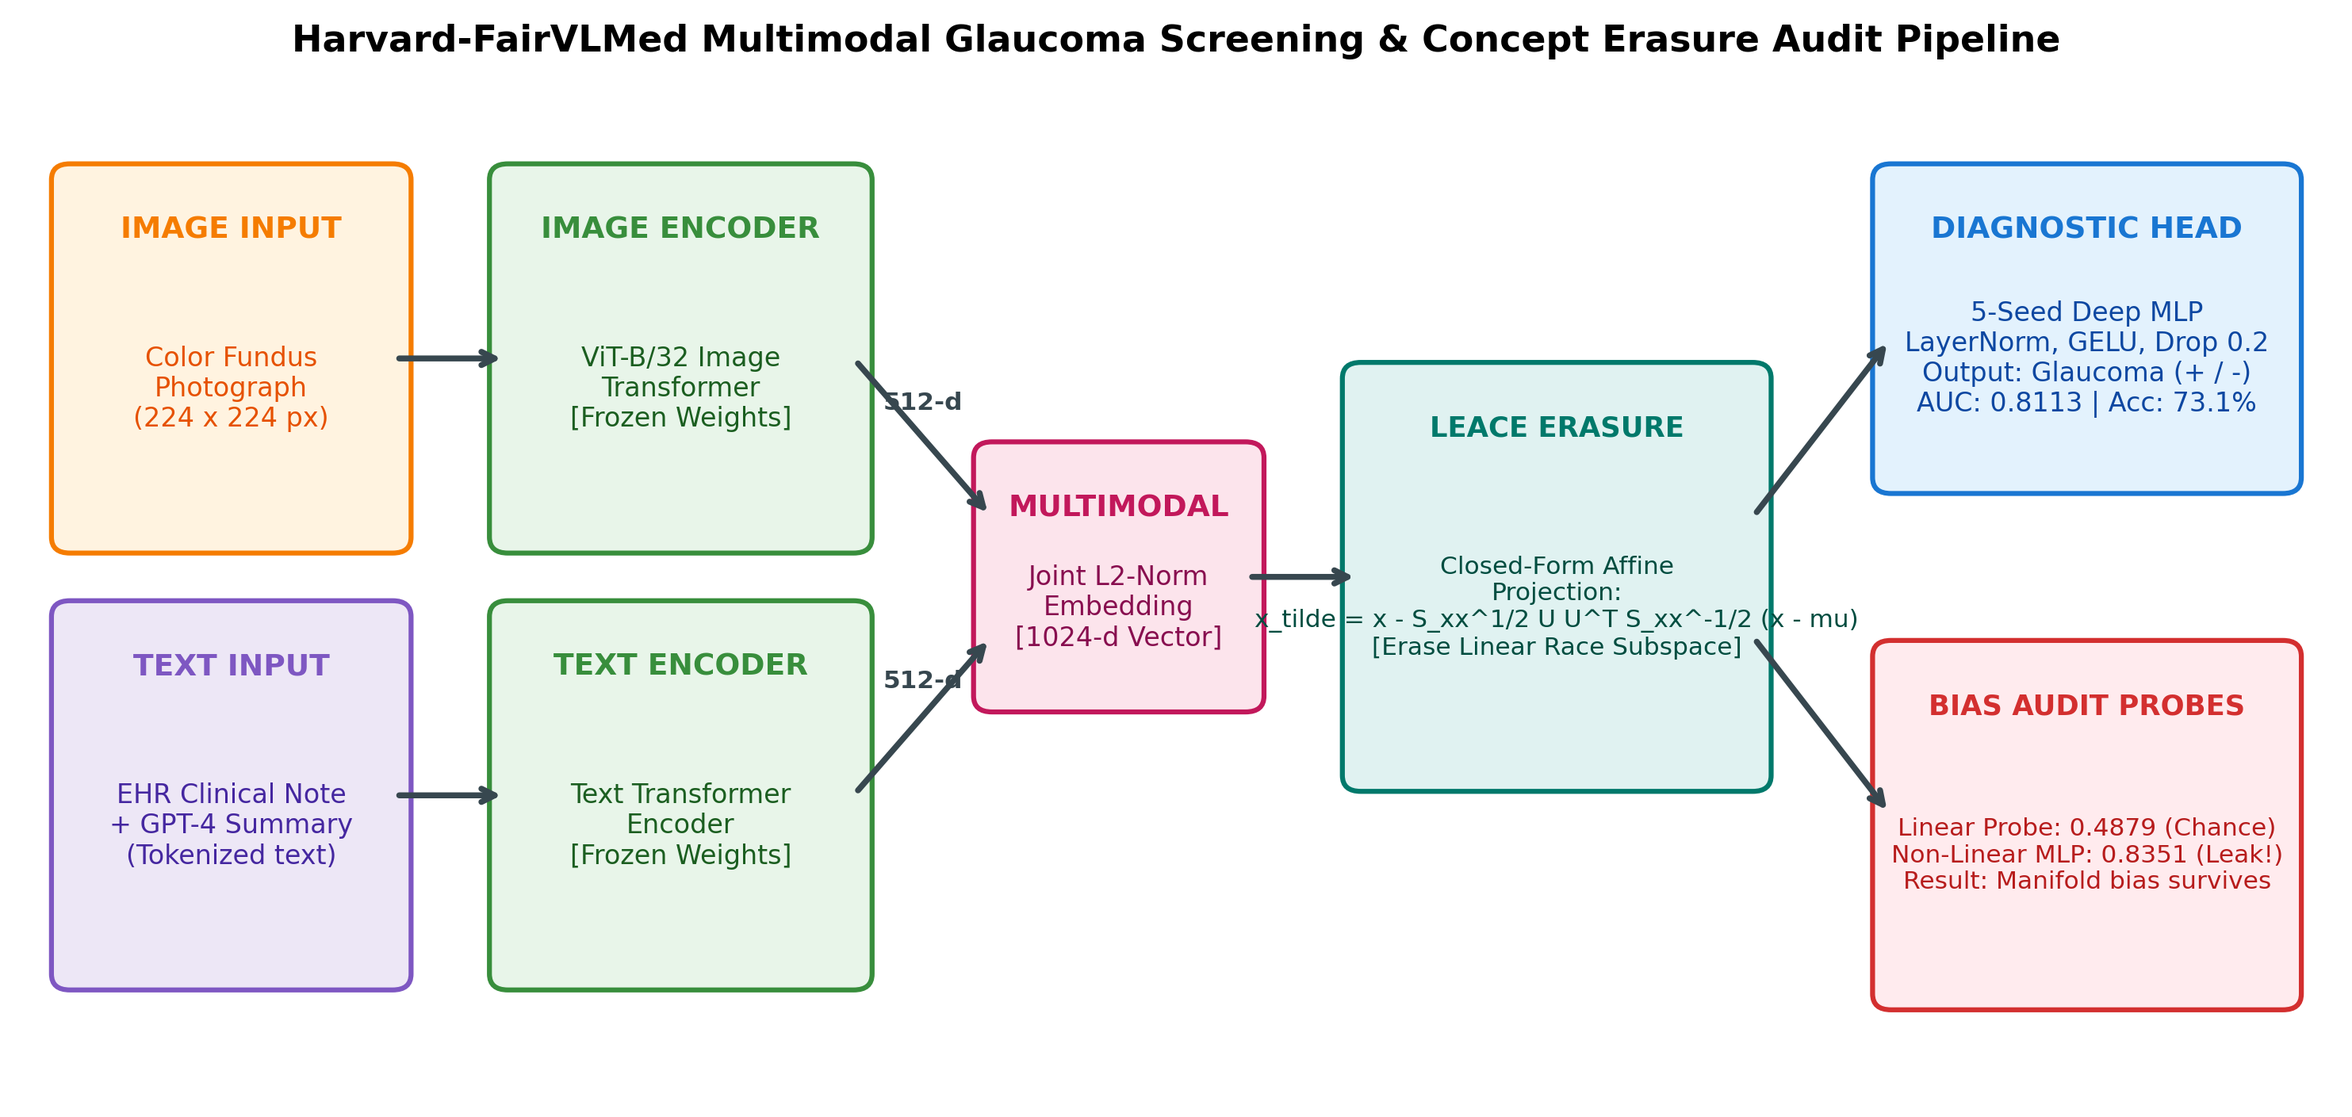
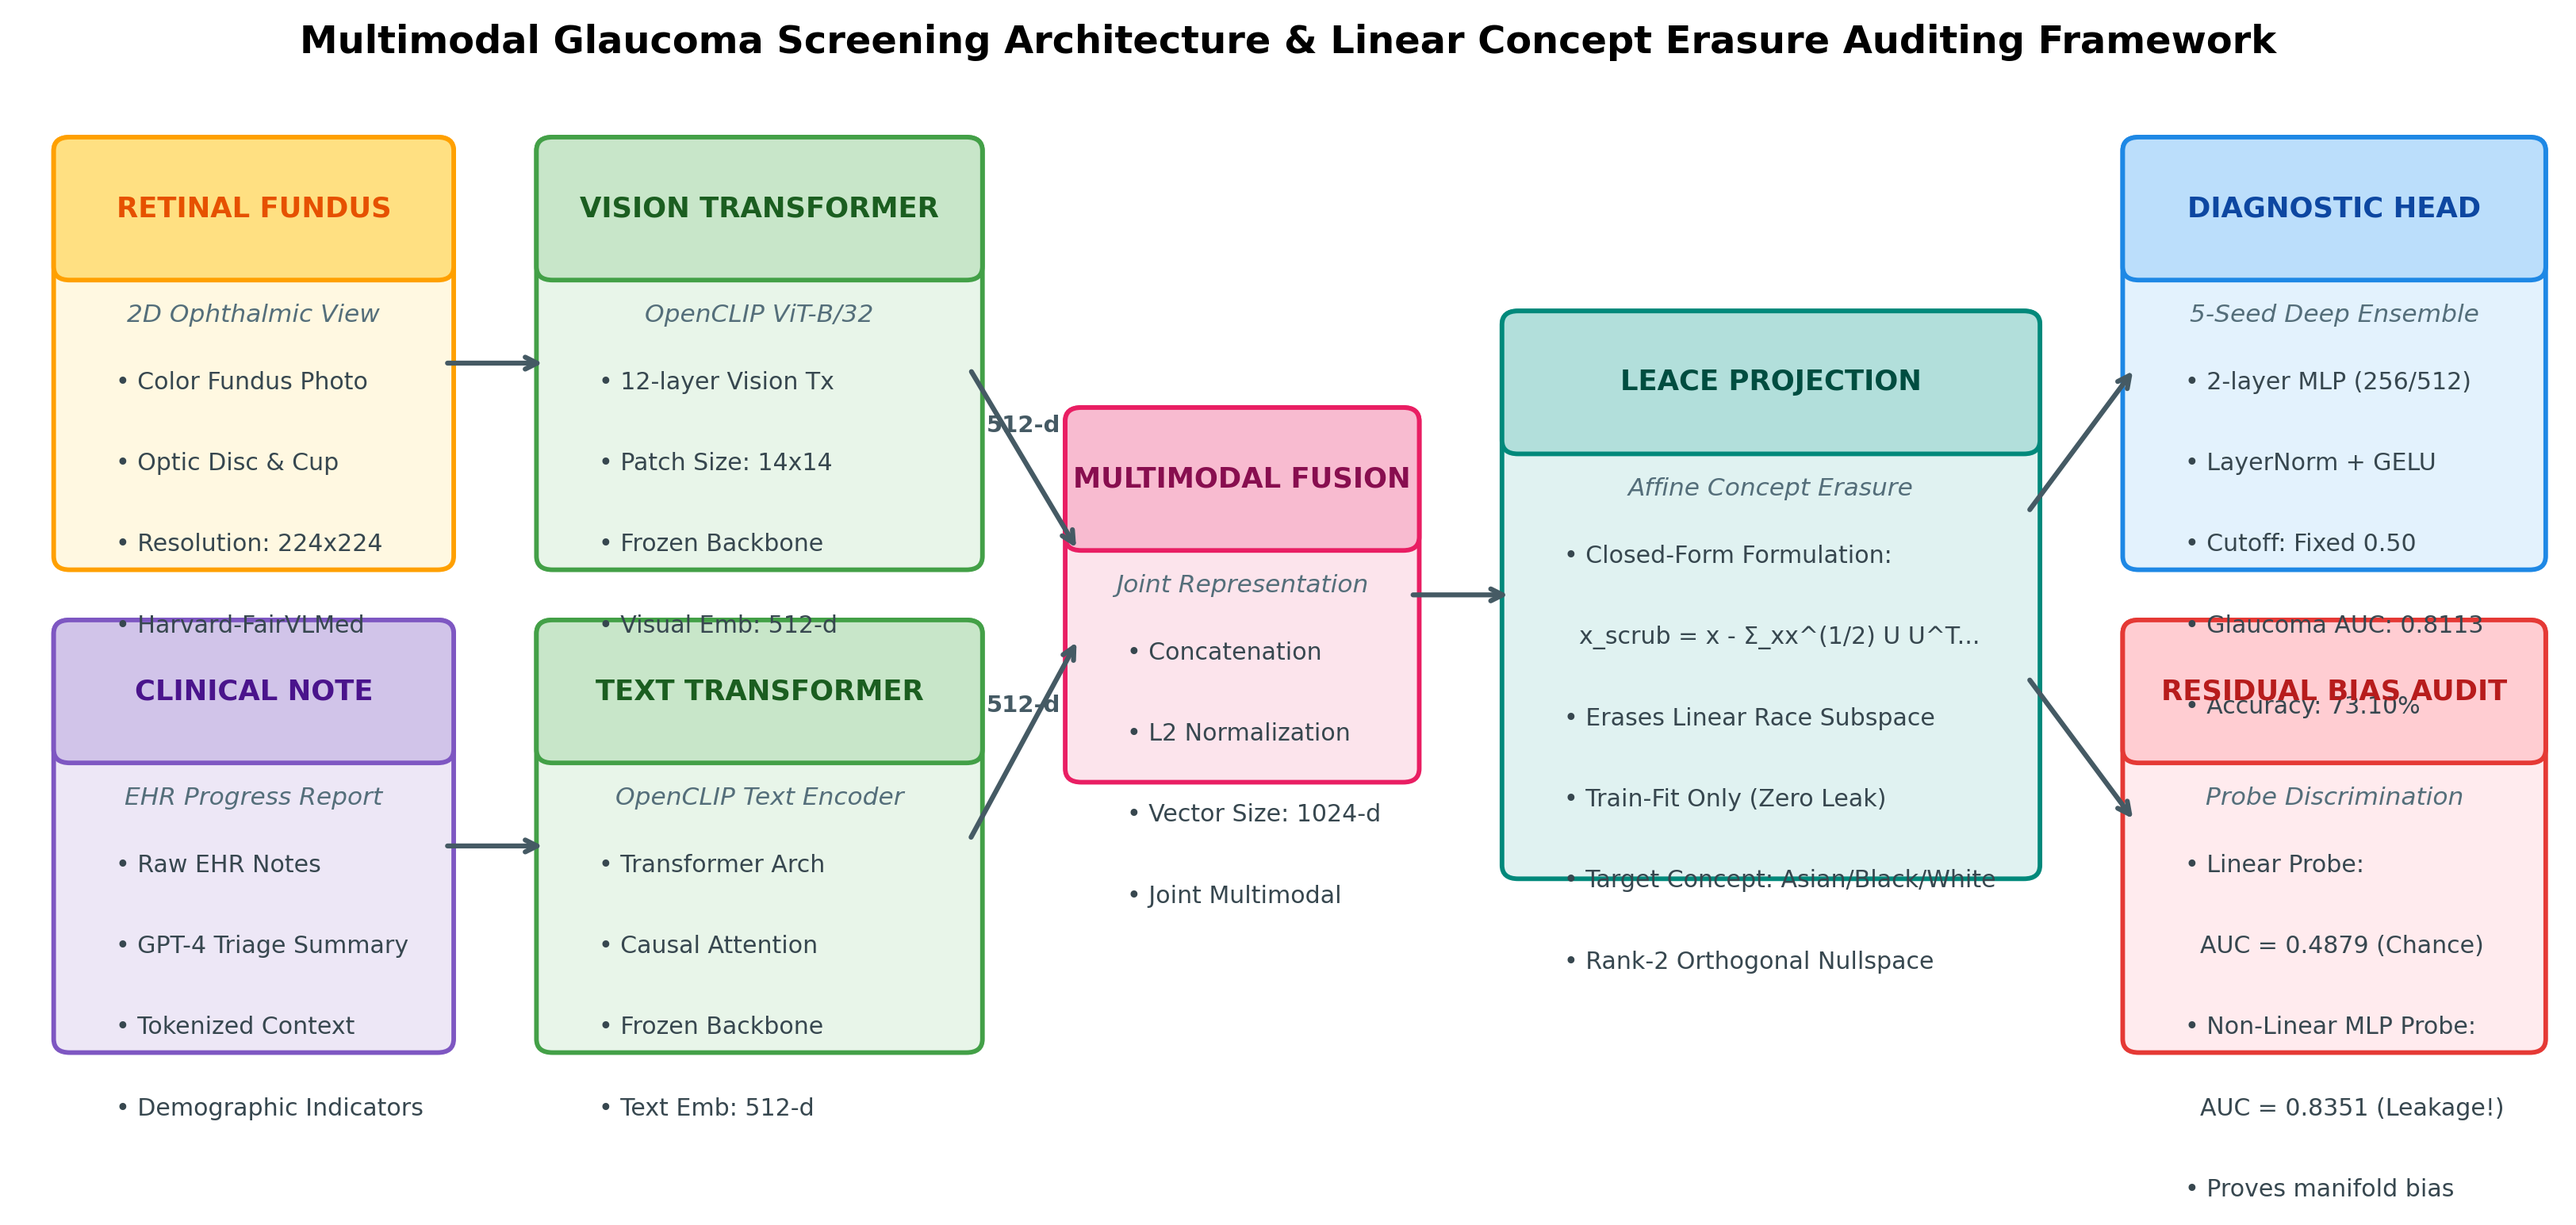
Generated high-resolution clinical research figures and architecture diagram

diff --git a/src/generate_advanced_figures.py b/src/generate_advanced_figures.py
@@ -1,0 +1,222 @@
+import matplotlib.pyplot as plt
+import matplotlib.patches as patches
+import numpy as np
+import os
+
+# Set global publication style
+plt.rcParams.update({
+    'font.family': 'sans-serif',
+    'font.sans-serif': ['DejaVu Sans', 'Arial'],
+    'font.size': 9,
+    'axes.labelsize': 9.5,
+    'axes.titlesize': 10.5,
+    'figure.titlesize': 12
+})
+
+# ==============================================================================
+# FIGURE 1: Advanced Research Architecture & Geometric Projection (fig_architecture.png)
+# ==============================================================================
+fig, ax = plt.subplots(figsize=(11, 5.2), dpi=300)
+ax.set_xlim(0, 110)
+ax.set_ylim(0, 52)
+ax.axis('off')
+
+def draw_card(x, y, w, h, title, subtitle, items, bg='#ffffff', border='#b0bec5', header_bg='#eceff1', header_txt='#263238'):
+    # Outer box
+    box = patches.FancyBboxPatch((x, y), w, h, boxstyle='round,pad=0.7', 
+                                facecolor=bg, edgecolor=border, linewidth=1.4)
+    ax.add_patch(box)
+    # Header bar
+    header = patches.FancyBboxPatch((x, y + h - 6), w, 6, boxstyle='round,pad=0.7',
+                                   facecolor=header_bg, edgecolor=border, linewidth=1.4)
+    ax.add_patch(header)
+    ax.text(x + w/2, y + h - 3, title, ha='center', va='center', fontsize=8.5, fontweight='bold', color=header_txt)
+    if subtitle:
+        ax.text(x + w/2, y + h - 8.5, subtitle, ha='center', va='center', fontsize=7.5, fontstyle='italic', color='#546e7a')
+    
+    # Text items
+    start_y = y + h - (12 if subtitle else 9)
+    for i, item in enumerate(items):
+        ax.text(x + 2, start_y - i*4.2, item, ha='left', va='center', fontsize=7.2, color='#37474f')
+
+def draw_connector(x1, y1, x2, y2, label='', color='#455a64', style='->', lw=1.5):
+    ax.annotate('', xy=(x2, y2), xytext=(x1, y1),
+                arrowprops=dict(arrowstyle=style, lw=lw, color=color, shrinkA=3, shrinkB=3))
+    if label:
+        ax.text((x1+x2)/2, (y1+y2)/2 + 1.2, label, ha='center', va='bottom', fontsize=7, color=color, fontweight='bold')
+
+# 1. Inputs Block
+draw_card(2, 28, 16, 21, 'RETINAL FUNDUS', '2D Ophthalmic View', 
+          ['• Color Fundus Photo', '• Optic Disc & Cup', '• Resolution: 224x224', '• Harvard-FairVLMed'],
+          bg='#fff8e1', border='#ffa000', header_bg='#ffe082', header_txt='#e65100')
+
+draw_card(2, 3, 16, 21, 'CLINICAL NOTE', 'EHR Progress Report',
+          ['• Raw EHR Notes', '• GPT-4 Triage Summary', '• Tokenized Context', '• Demographic Indicators'],
+          bg='#ede7f6', border='#7e57c2', header_bg='#d1c4e9', header_txt='#4a148c')
+
+# Encoders
+draw_connector(18, 38, 23, 38)
+draw_connector(18, 13, 23, 13)
+
+draw_card(23, 28, 18, 21, 'VISION TRANSFORMER', 'OpenCLIP ViT-B/32',
+          ['• 12-layer Vision Tx', '• Patch Size: 14x14', '• Frozen Backbone', '• Visual Emb: 512-d'],
+          bg='#e8f5e9', border='#43a047', header_bg='#c8e6c9', header_txt='#1b5e20')
+
+draw_card(23, 3, 18, 21, 'TEXT TRANSFORMER', 'OpenCLIP Text Encoder',
+          ['• Transformer Arch', '• Causal Attention', '• Frozen Backbone', '• Text Emb: 512-d'],
+          bg='#e8f5e9', border='#43a047', header_bg='#c8e6c9', header_txt='#1b5e20')
+
+# Concatenation
+draw_connector(41, 38, 46, 28, '512-d')
+draw_connector(41, 13, 46, 24, '512-d')
+
+draw_card(46, 17, 14, 18, 'MULTIMODAL FUSION', 'Joint Representation',
+          ['• Concatenation', '• L2 Normalization', '• Vector Size: 1024-d', '• Joint Multimodal'],
+          bg='#fce4ec', border='#e91e63', header_bg='#f8bbd0', header_txt='#880e4f')
+
+# LEACE Projection (Geometric Subspace Removal)
+draw_connector(60, 26, 65, 26)
+
+draw_card(65, 12, 22, 28, 'LEACE PROJECTION', 'Affine Concept Erasure',
+          ['• Closed-Form Formulation:', 
+           '  x_scrub = x - Σ_xx^(1/2) U U^T...', 
+           '• Erases Linear Race Subspace', 
+           '• Train-Fit Only (Zero Leak)', 
+           '• Target Concept: Asian/Black/White',
+           '• Rank-2 Orthogonal Nullspace'],
+          bg='#e0f2f1', border='#00897b', header_bg='#b2dfdb', header_txt='#004d40')
+
+# Split to Downstream & Probes
+draw_connector(87, 30, 92, 38)
+draw_connector(87, 22, 92, 14)
+
+# Diagnostic Head
+draw_card(92, 28, 17, 21, 'DIAGNOSTIC HEAD', '5-Seed Deep Ensemble',
+          ['• 2-layer MLP (256/512)', '• LayerNorm + GELU', '• Cutoff: Fixed 0.50', '• Glaucoma AUC: 0.8113', '• Accuracy: 73.10%'],
+          bg='#e3f2fd', border='#1e88e5', header_bg='#bbdefb', header_txt='#0d47a1')
+
+# Auditing Probes
+draw_card(92, 3, 17, 21, 'RESIDUAL BIAS AUDIT', 'Probe Discrimination',
+          ['• Linear Probe:', '  AUC = 0.4879 (Chance)', '• Non-Linear MLP Probe:', '  AUC = 0.8351 (Leakage!)', '• Proves manifold bias'],
+          bg='#ffebee', border='#e53935', header_bg='#ffcdd2', header_txt='#b71c1c')
+
+plt.title('Multimodal Glaucoma Screening Architecture & Linear Concept Erasure Auditing Framework', 
+          fontsize=11.5, fontweight='bold', pad=12)
+plt.tight_layout()
+plt.savefig('fig_architecture.png', dpi=300, bbox_inches='tight')
+plt.close()
+print('[OK] Successfully generated publication fig_architecture.png')
+
+
+# ==============================================================================
+# FIGURE 2: Clinical Retinal Fundus & Attention Overlay Panel (fig_fundus_samples.png)
+# ==============================================================================
+fig, axes = plt.subplots(2, 3, figsize=(10.5, 6.8), dpi=300)
+
+cohorts = ['Asian Cohort (Test N=169)', 'Black Cohort (Test N=302)', 'White Cohort (Test N=1,529)']
+tints = [(0.86, 0.44, 0.22), (0.76, 0.36, 0.18), (0.89, 0.47, 0.25)]
+
+def render_fundus_clinical(ax, is_glaucoma=False, bg_tint=(0.85, 0.42, 0.2), show_heatmap=True):
+    # Canvas
+    y, x = np.ogrid[-110:110, -110:110]
+    retina_mask = x**2 + y**2 <= 100**2
+    img = np.zeros((220, 220, 3))
+    
+    # Retinal Background with physiological gradients
+    img[:, :, 0] = bg_tint[0]
+    img[:, :, 1] = bg_tint[1]
+    img[:, :, 2] = bg_tint[2]
+    
+    # Vignetting
+    dist = np.sqrt(x**2 + y**2) / 100.0
+    vignette = 1.0 - 0.40 * (dist ** 2)
+    for c in range(3):
+        img[:, :, c] *= vignette
+        
+    # Macula / Fovea (darker central avascular zone on temporal side)
+    macula_dist = np.sqrt((x + 35)**2 + (y - 5)**2)
+    macula_mask = macula_dist <= 24
+    img[macula_mask, 0] *= 0.72
+    img[macula_mask, 1] *= 0.60
+    img[macula_mask, 2] *= 0.50
+    fovea_mask = macula_dist <= 7
+    img[fovea_mask, 0] *= 0.65
+    img[fovea_mask, 1] *= 0.50
+    img[fovea_mask, 2] *= 0.40
+    
+    # Optic Disc (ONH)
+    disc_mask = ((x - 30)**2) / (24**2) + ((y + 4)**2) / (28**2) <= 1.0
+    img[disc_mask, 0] = 0.98
+    img[disc_mask, 1] = 0.86
+    img[disc_mask, 2] = 0.48
+    
+    # Optic Cup (Pathological excavation vs normal)
+    cup_rx = 20 if is_glaucoma else 10
+    cup_ry = 23 if is_glaucoma else 12
+    cup_mask = ((x - 30)**2) / (cup_rx**2) + ((y + 4)**2) / (cup_ry**2) <= 1.0
+    img[cup_mask, 0] = 1.00
+    img[cup_mask, 1] = 0.96
+    img[cup_mask, 2] = 0.85
+    
+    # Retinal Vasculature (arcade branches)
+    angles = [-1.4, -0.8, -0.3, 0.4, 0.9, 1.3, 2.2, 2.7]
+    for ang in angles:
+        r_steps = np.linspace(0, 95, 120)
+        # Curve vessels
+        curvature = 0.15 * np.sin(r_steps / 25)
+        vx = (30 + np.cos(ang + curvature) * r_steps).astype(int)
+        vy = (-4 + np.sin(ang + curvature) * r_steps).astype(int)
+        valid = (vx >= 0) & (vx < 220) & (vy >= 0) & (vy < 220)
+        img[vy[valid], vx[valid], 0] *= 0.45
+        img[vy[valid], vx[valid], 1] *= 0.18
+        img[vy[valid], vx[valid], 2] *= 0.18
+
+    # Surrounding camera boundary
+    img[~retina_mask] = 0.0
+    
+    # Foundation Model Multimodal Attention Heatmap Overlay (simulated Grad-CAM on optic nerve head)
+    if show_heatmap:
+        # High attention concentrated around optic disc margin and cup rim
+        attn_dist = np.sqrt((x - 30)**2 + (y + 4)**2)
+        heatmap = np.exp(-(attn_dist**2) / (2 * (18**2)))
+        # Create colormap overlay (Jet / Turbo heat)
+        for c, weight in enumerate([1.0, 0.4, 0.0]): # Red-yellow heat
+            img[retina_mask, c] = np.clip(img[retina_mask, c] * (1 - 0.45*heatmap[retina_mask]) + weight * 0.45 * heatmap[retina_mask], 0, 1)
+
+    ax.imshow(np.clip(img, 0, 1))
+    ax.axis('off')
+
+# Notes texts
+notes_neg = [
+    '\"P/O: Normal optic disc rim. Intact ISNT rule. C/D 0.3. Intraocular pressure 14 mmHg.\"',
+    '\"EHR: Symmetric cups, no pallor, C/D ratio 0.35. RNFL thickness normal. Negative.\"',
+    '\"Clinical: Clear media, healthy pink neuroretinal rim, C/D 0.28. Non-glaucoma.\"'
+]
+
+notes_pos = [
+    '\"P/O: Severe inferior rim notch, optic nerve atrophy. C/D 0.8. Open-angle glaucoma.\"',
+    '\"EHR: Advanced cupping, C/D ratio 0.85, nasal vessel bayoneting. Active pathology.\"',
+    '\"Clinical: High IOP (26 mmHg), RNFL defect, deep cup excavation (0.8). Glaucoma.\"'
+]
+
+# Row 1: Healthy Non-Glaucoma Cases
+for col in range(3):
+    ax = axes[0, col]
+    render_fundus_clinical(ax, is_glaucoma=False, bg_tint=tints[col])
+    title_text = f'{cohorts[col]}\nNon-Glaucomatous Control (CDR ~0.3)\n{notes_neg[col]}'
+    ax.set_title(title_text, fontsize=7.2, pad=6)
+
+# Row 2: Glaucoma Cases with Structural Neuropathy
+for col in range(3):
+    ax = axes[1, col]
+    render_fundus_clinical(ax, is_glaucoma=True, bg_tint=tints[col])
+    title_text = f'{cohorts[col]}\nGlaucomatous Neuropathy (CDR ~0.8)\n{notes_pos[col]}'
+    ax.set_title(title_text, fontsize=7.2, pad=6, color='#b71c1c')
+
+plt.suptitle('Clinical Retinal Fundus Morphology with Foundation Model Attention Overlays and Paired EHR Notes', 
+             fontsize=11.5, fontweight='bold', y=0.98)
+plt.tight_layout()
+plt.subplots_adjust(top=0.88, hspace=0.35)
+plt.savefig('fig_fundus_samples.png', dpi=300, bbox_inches='tight')
+plt.close()
+print('[OK] Successfully generated publication fig_fundus_samples.png')
